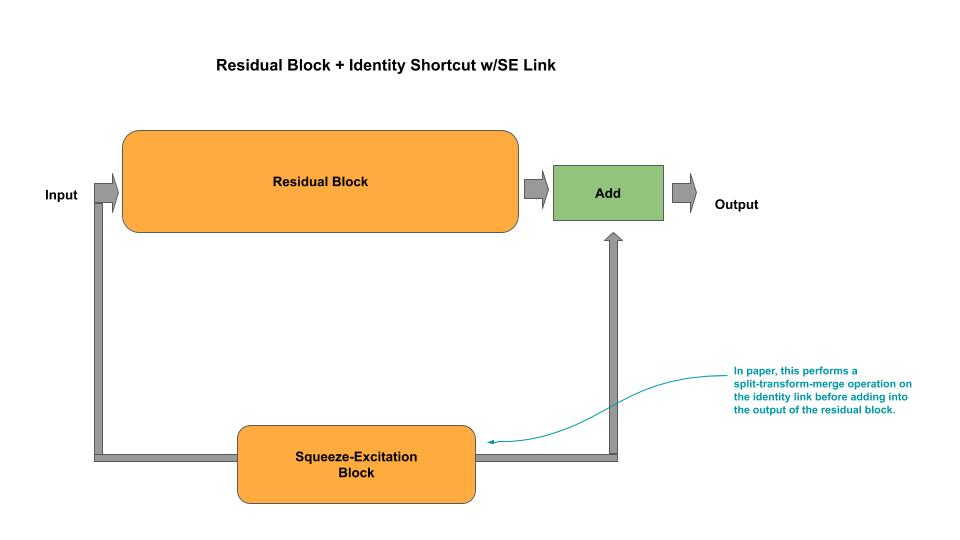
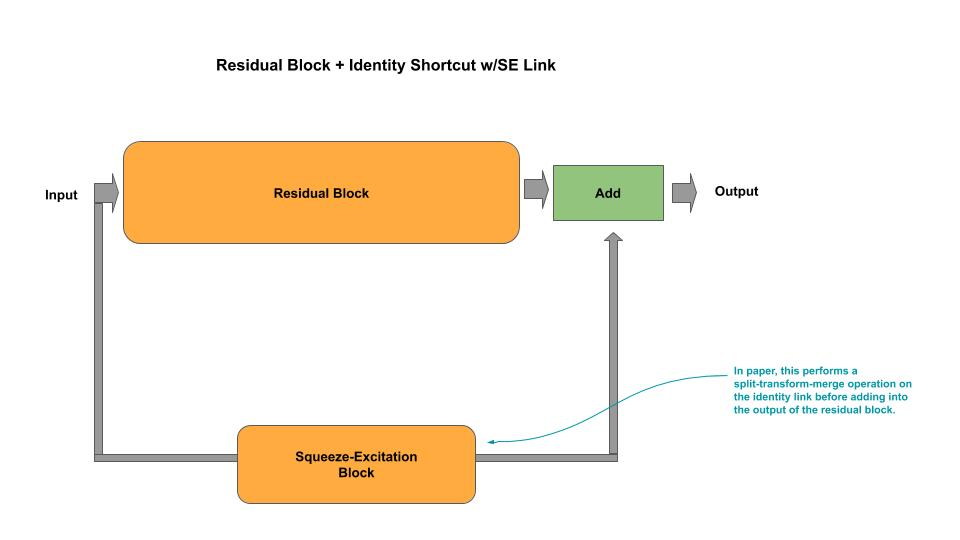
more arch pics

diff --git a/zoo/senet/README.md b/zoo/senet/README.md
@@ -11,6 +11,10 @@
 
 <img src="micro.jpg">
 
-### ResNet Block and Identity Shortcut w/SE Link
+### Residual Block and Identity Shortcut w/SE Link
 
 <img src="identity-block.jpg">
+
+### Residual Block and Projection Shortcut w/SE Link
+
+<img src="projection-block.jpg">
